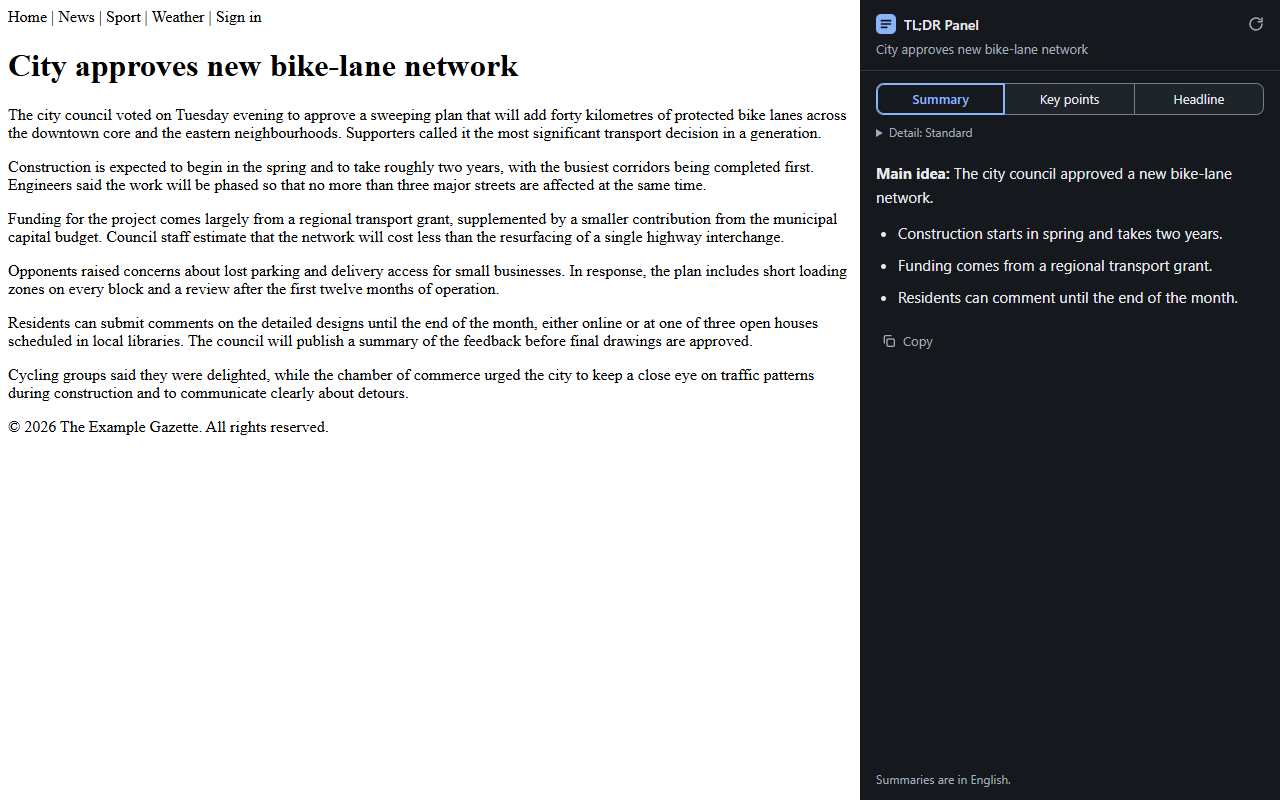
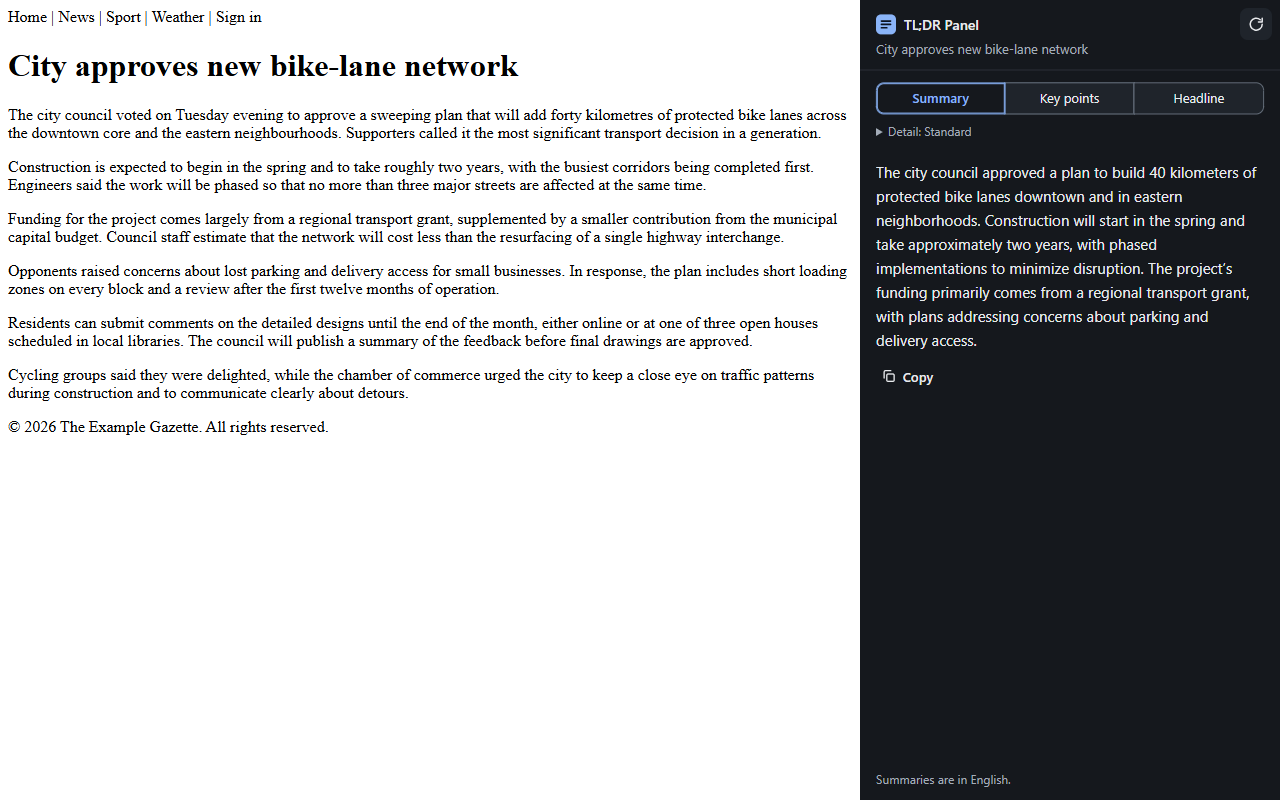
1.0.1: visible refresh and Copy, tab-switch race fix, unreadable-tab message, real-model screenshots

Changed region(s): [[0.6875, 0.0938, 0.9688, 0.4375], [0.6875, 0.4688, 0.7188, 0.5]]

diff --git a/src/sidepanel.js b/src/sidepanel.js
@@ -2,7 +2,7 @@ import * as adapter from './lib/summarizer.js';
 import { summarizeLong } from './lib/pipeline.js';
 import { consumeStream } from './lib/stream.js';
 import { renderMarkdown, toPlainText } from './lib/markdown.js';
-import { getTargetTab, chooseTab, extractFromTab, PageError, MSG } from './lib/page.js';
+import { getTargetTab, chooseTab, extractFromTab, shouldStayStale, PageError, MSG } from './lib/page.js';
 import { createActivationListener } from './lib/activation.js';
 
 const $ = (id) => document.getElementById(id);
@@ -21,6 +21,7 @@ let ownTabId = null; // set only when the panel is open as a normal tab (tests)
 let panelWindowId = null;
 let stale = false; // user switched tabs / the tab navigated since the last extraction
 let navigated = false;
+let activatedTabId = null; // last tab the user activated in this window since the current run began
 let lastText = '';
 let controller = null;
 let runId = 0;
@@ -226,6 +227,7 @@ async function run({ tabId = null, reextract = true } = {}) {
   $('result').replaceChildren();
   setNote();
   setStatus('');
+  activatedTabId = null;
   const wasStale = stale; // the banner stays up until a fresh page was actually read
   setTitle('');
   setBusy(true);
@@ -245,7 +247,7 @@ async function run({ tabId = null, reextract = true } = {}) {
       currentTabId = tab?.id ?? null;
       let fresh;
       try {
-        fresh = await extractFromTab(tab);
+        fresh = await extractFromTab(tab, { afterClick: tabId != null });
       } catch (e) {
         if (id === runId) page = null; // never summarize a stale page after a failed re-extraction
         throw e;
@@ -254,7 +256,8 @@ async function run({ tabId = null, reextract = true } = {}) {
       page = fresh;
     }
     navigated = false;
-    setStale(false);
+    // The user may have switched tabs while the text was being read: keep the banner up in that case.
+    setStale(shouldStayStale({ runTabId: currentTabId, activatedTabId }));
     setTitle(page.title || page.url || '');
     if (availability === 'downloadable' || availability === 'downloading') {
       showDownload(availability);
@@ -413,8 +416,10 @@ async function initTabTracking() {
     /* not fatal */
   }
   chrome.tabs.onActivated.addListener(({ tabId, windowId }) => {
-    if (tabId === ownTabId || currentTabId == null) return;
+    if (tabId === ownTabId) return;
     if (panelWindowId != null && windowId !== panelWindowId) return;
+    activatedTabId = tabId;
+    if (currentTabId == null) return;
     if (tabId !== currentTabId) setStale(true);
     else if (!navigated) setStale(false);
   });

diff --git a/tests/unit/page.test.js b/tests/unit/page.test.js
@@ -1,6 +1,6 @@
 // @vitest-environment jsdom
 import { describe, it, expect, vi, afterEach } from 'vitest';
-import { classifyPage, chooseTab, extractFromTab, errorText, MSG, PageError } from '../../src/lib/page.js';
+import { shouldStayStale, classifyPage, chooseTab, extractFromTab, errorText, MSG, PageError } from '../../src/lib/page.js';
 
 afterEach(() => vi.unstubAllGlobals());
 
@@ -121,5 +121,37 @@ describe('chooseTab', () => {
     const tab = await chooseTab({ stale: true, currentTabId: 1 }, d);
     await expect(extractFromTab(tab)).rejects.toMatchObject({ code: 'no-grant', message: MSG.noGrant });
     expect(executeScript.mock.calls.every(([a]) => a.target.tabId === 2)).toBe(true);
+  });
+});
+
+describe('shouldStayStale (tab switched during a run)', () => {
+  it('no tab activation during the run -> not stale', () => {
+    expect(shouldStayStale({ runTabId: 1, activatedTabId: null })).toBe(false);
+  });
+  it('a different tab was activated -> the banner stays', () => {
+    expect(shouldStayStale({ runTabId: 1, activatedTabId: 2 })).toBe(true);
+  });
+  it('the user came back to the run tab -> not stale', () => {
+    expect(shouldStayStale({ runTabId: 1, activatedTabId: 1 })).toBe(false);
+  });
+  it('unknown run tab -> not stale', () => {
+    expect(shouldStayStale({ runTabId: null, activatedTabId: 2 })).toBe(false);
+  });
+});
+
+describe('extractFromTab after a toolbar click on an unreadable tab', () => {
+  const failing = () =>
+    vi.stubGlobal('chrome', { scripting: { executeScript: vi.fn().mockRejectedValue(new Error('Cannot access contents of the page. Extension manifest must request permission')) } });
+  it('empty url + no grant right after a click -> neutral internal message', async () => {
+    failing();
+    await expect(extractFromTab({ id: 1, url: '' }, { afterClick: true })).rejects.toMatchObject({ code: 'internal', message: MSG.internal });
+  });
+  it('same failure without a click stays the no-grant message', async () => {
+    failing();
+    await expect(extractFromTab({ id: 1, url: '' })).rejects.toMatchObject({ code: 'no-grant' });
+  });
+  it('a real http tab with no grant after a click keeps the no-grant message', async () => {
+    failing();
+    await expect(extractFromTab({ id: 1, url: 'https://example.com/' }, { afterClick: true })).rejects.toMatchObject({ code: 'no-grant' });
   });
 });

diff --git a/src/lib/page.js b/src/lib/page.js
@@ -77,7 +77,19 @@ export async function chooseTab({ tabId = null, stale = false, currentTabId = nu
   return getActive();
 }
 
-export async function extractFromTab(tab) {
+/**
+ * After a run's text was read: should the "you switched pages" banner stay up? True when the user activated a
+ * different tab than the one the run read while it was in flight (the result belongs to the older tab).
+ */
+export function shouldStayStale({ runTabId, activatedTabId }) {
+  return activatedTabId != null && runTabId != null && activatedTabId !== runTabId;
+}
+
+/**
+ * `afterClick`: this run was started by a toolbar click on this tab. Chrome then always grants activeTab, so a
+ * no-grant failure on a tab with no readable URL (about:blank and similar) is really an unreadable page.
+ */
+export async function extractFromTab(tab, { afterClick = false } = {}) {
   if (!tab || tab.id == null) throw new PageError(MSG.noGrant, 'no-grant');
   const early = classifyPage({ url: tab.url });
   if (early) throw early;
@@ -92,7 +104,9 @@ export async function extractFromTab(tab) {
     if (res?.error) throw res.error;
     result = res?.result;
   } catch (e) {
-    throw classifyPage({ url: tab.url, errorMessage: errorText(e) || 'unknown', contentType: undefined });
+    const err = classifyPage({ url: tab.url, errorMessage: errorText(e) || 'unknown', contentType: undefined });
+    if (afterClick && err.code === 'no-grant' && (!tab.url || /^about:/i.test(tab.url))) throw new PageError(MSG.internal, 'internal');
+    throw err;
   }
   if (!result) throw new PageError(MSG.generic, 'other');
   const pdf = classifyPage({ contentType: result.contentType });

diff --git a/src/sidepanel.css b/src/sidepanel.css
@@ -177,10 +177,13 @@ button[aria-disabled="true"] { opacity: 0.55; cursor: default; }
 button.primary { background: var(--accent); border-color: var(--accent); color: var(--on-accent); font-weight: 600; }
 button.link-btn { border-color: transparent; background: transparent; color: var(--accent); padding-inline: var(--s2); }
 button.link-btn:hover { border-color: transparent; text-decoration: underline; }
-button.ghost, button.icon-btn { border-color: transparent; background: transparent; color: var(--muted); }
-button.ghost:hover, button.icon-btn:hover { border-color: transparent; background: var(--surface); color: var(--text); }
+button.ghost, button.icon-btn { border-color: transparent; background: transparent; color: var(--text); }
+button.ghost:hover, button.icon-btn:hover { border-color: var(--border-ui); background: var(--surface); color: var(--text); }
+button.icon-btn:hover { background: var(--border); }
+button.ghost:active, button.icon-btn:active { background: var(--border); }
+button.ghost { font-weight: 500; }
 button.ghost { margin-inline-start: calc(var(--s2) * -1); }
-button.icon-btn { width: var(--target); padding: 0; flex: none; margin-inline-end: calc(var(--s2) * -1); }
+button.icon-btn { width: var(--target); height: var(--target); padding: 0; flex: none; margin-inline-end: calc(var(--s2) * -1); background: var(--surface); }
 button:focus-visible { outline: 2px solid var(--focus); outline-offset: 2px; }
 .i-check { display: none; }
 #copy-btn[data-state="done"] { color: var(--accent); }

diff --git a/DECISIONS.md b/DECISIONS.md
@@ -123,7 +123,7 @@ Each decision, its rationale, and what could not be verified.
   second sender cannot be simulated in Playwright.
 - **Real Chrome 153 + real model (Puppeteer, this round):** the panel from `dist-e2e` (identical code to
   `dist`, reached via `?tabId=`) extracted the fixture article and produced real streamed summaries in
-  light and dark with the final CSP. (The store result screenshots were later regenerated with the fake text after the UI redesign; see Screenshots.)
+  light and dark with the final CSP. (The store result screenshots were regenerated with real output again for 1.0.1; see Screenshots.)
 - **NOT verified this round (honest gaps):**
   - The shipped `dist/` with a real toolbar click producing an activeTab grant, and a click on a second
     tab re-summarizing while the panel is open. An OS-level attempt (SendKeys Alt+Shift+S) opened the
@@ -135,7 +135,7 @@ Each decision, its rationale, and what could not be verified.
   - Real clipboard copy (e2e stubs `navigator.clipboard`), real background download continuation after
     cancel, macOS/Linux, non-English pages, PDFs in the real viewer, Web Store pages.
 - **Screenshots** (`node scripts/screenshots.mjs`, needs `build --e2e`): 1280x800 with the fixture article
-  and the panel at 420px. Result screenshots use the e2e fake's text since the 1.0.1 UI redesign (the earlier real-model captures show the old layout and are kept only as gitignored `raw/old-ui-real-result-*`); the download and unavailable states come from the e2e fake (they cannot be produced on this machine, as
+  and the panel at 420px. The two result screenshots use REAL Gemini Nano output with the 1.0.1 UI: real Chrome 153 driven by Puppeteer (throwaway profile copy holding the downloaded model, `triggerAction` on the fixture article, default Summary/Standard), panel captured at 420x800 in light and dark (gitignored `raw/real-result-{light,dark}.png`, which `scripts/screenshots.mjs` composites next to the page); the download and unavailable states come from the e2e fake (they cannot be produced on this machine, as
   the model is installed). Only the fixture page and the panel are captured, no browser chrome.
 
 ## UI polish pass (1.0.1)
@@ -179,8 +179,17 @@ Contrast (WCAG 2.x, computed from the tokens; text needs 4.5, UI boundaries 3):
 | border-ui / surface | 3.52 | 3.78 |
 | danger / danger-bg (glyph, title) | 5.95 | 7.30 |
 | banner text / banner bg | 10.23 | 10.26 |
-The ghost Copy and refresh buttons have no outline; their icon and label are muted (5.86+) and gain a surface
-fill on hover. The skeleton (1.24) is decorative and aria-hidden.
+Discoverability follow-up: the 1.0.0 refresh icon (muted, no fill) was easy to miss. It now uses the full text
+colour (15.16 light / 12.95 dark on surface) in a 32x32 button with a resting surface fill, a stronger hover fill
+plus a 3:1+ outline (border-ui), the standard focus ring, and the title/aria-label "Summarize again". Copy keeps
+the ghost style but uses full text colour (medium weight), with a surface fill and outline on hover. No tokens
+changed, so the table above stands. The skeleton (1.24) is decorative and aria-hidden.
 
 Verified with Playwright (headless Chromium) at 320/420/600, light/dark, RTL (dir=rtl) and forced-colors
 emulation; no horizontal overflow at 320. Not verified: a real side panel in Chrome, real screen readers.
+
+Tab-switch race (fixed): `onActivated` now records the last tab the user activated during a run; after the text is
+read, the banner stays up when that tab is not the one the run read (`shouldStayStale`, unit-tested) instead of
+being cleared. Unreadable blank tabs: right after a toolbar click (`afterClick`), a no-grant failure on a tab with
+an empty or about: URL shows the neutral "Chrome doesn't let extensions read this kind of page" message; without a
+click, or on real http(s) tabs, the no-grant message is unchanged.

diff --git a/CHANGELOG.md b/CHANGELOG.md
@@ -1,9 +1,13 @@
 # Changelog
 
-## 1.0.1 (unreleased): UI polish
+## 1.0.1: UI polish
 
 - Cleaner, calmer side panel: design tokens, sticky top bar with refresh, page title subtitle, quieter Style/Detail controls, larger reading text, ghost Copy with "Copied" feedback, skeleton loading, glyphs on state cards, slim stale notice, low-key footer.
-- No behaviour, permission or accessibility changes. Store screenshots regenerated (result images now use the e2e fake text).
+- The refresh button is now clearly visible (full-contrast icon, 32px target, hover/focus fill, "Summarize again" tooltip) and Copy is more prominent.
+- Fixed a low-severity race: switching tabs while a run was reading the page no longer clears the "You switched pages" banner.
+- A blank or otherwise unreadable tab right after a toolbar click now shows the neutral "Chrome doesn't let extensions read this kind of page" message.
+- Store screenshots regenerated with the new UI (result images use real on-device model output).
+- No permission changes.
 
 ## Unreleased (post-review fixes)
 

diff --git a/README.md b/README.md
@@ -42,7 +42,6 @@ Summaries are English only and are AI output, so they can be wrong.
 - The Alt+Shift+S shortcut is registered but not covered by automated tests.
 - The real clipboard write can only be tested manually.
 - Tested on Windows with Chrome 153 only.
-- Low-severity race: if you switch tabs during the brief text-reading phase of a run, the status banner can clear while the result belongs to the tab where the run began. The window is narrow.
 
 ## Permissions explained
 
